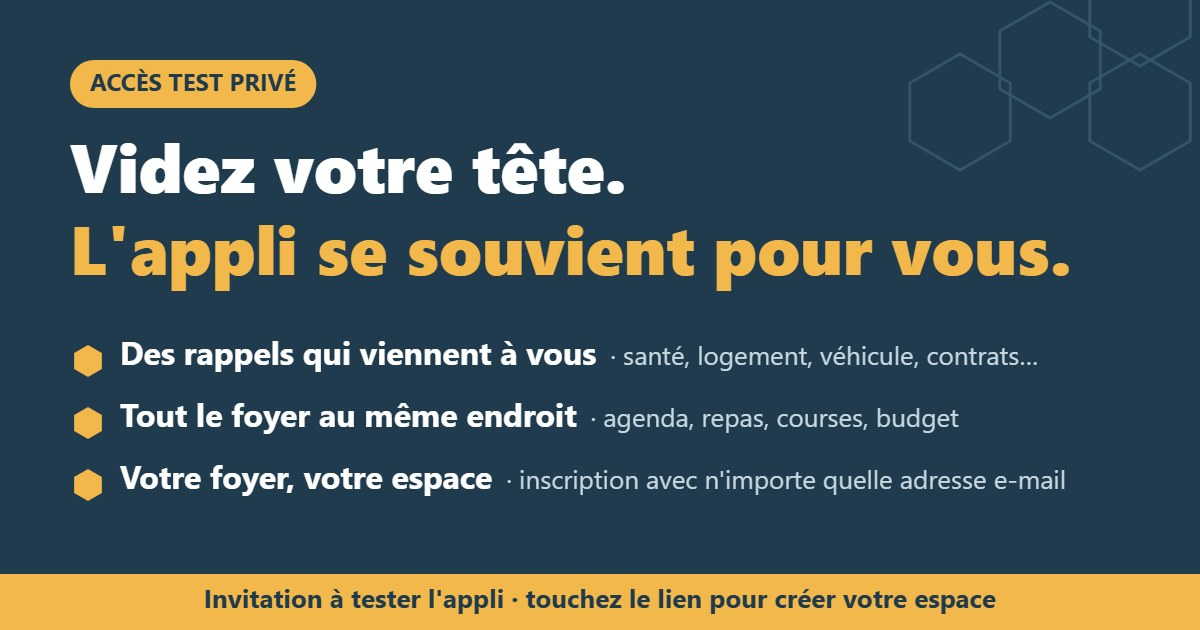
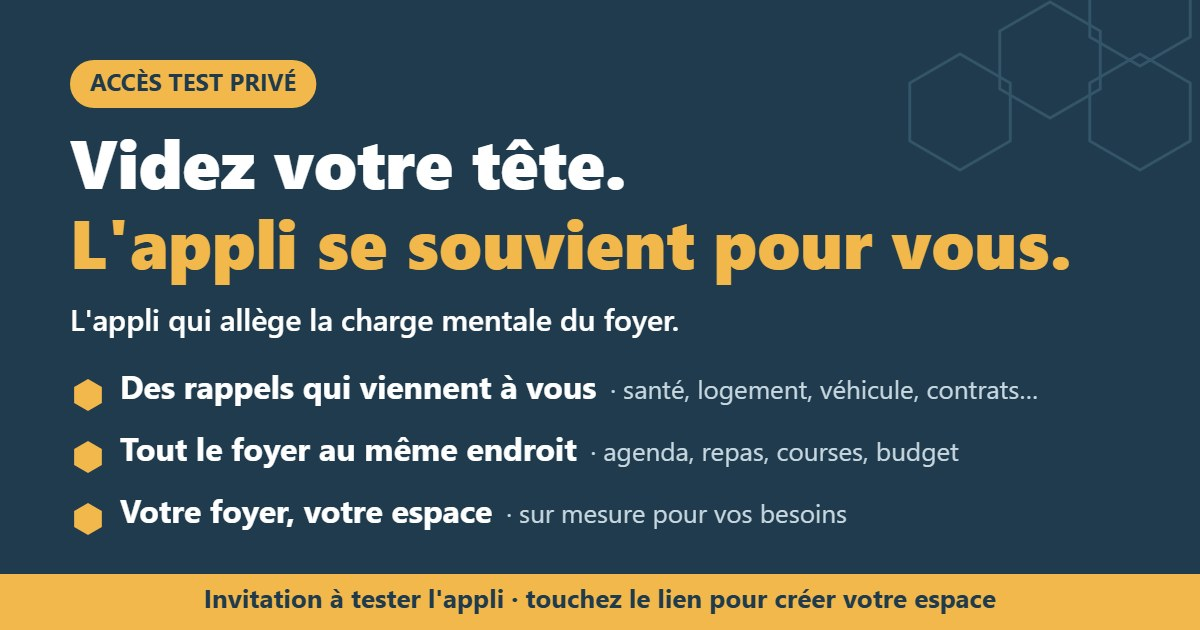
Add files via upload

Changed region(s): [[0.0617, 0.2111, 0.8942, 0.8444]]

diff --git a/index.html b/index.html
@@ -4,13 +4,13 @@
 <meta charset="utf-8">
 <meta name="viewport" content="width=device-width, initial-scale=1">
 <title>Invitation · accès test privé</title>
-<meta name="description" content="Accès test privé : une appli qui allège la charge mentale du foyer. Inscription avec n'importe quelle adresse e-mail.">
+<meta name="description" content="Accès test privé : l'appli qui allège la charge mentale du foyer, sur mesure pour vos besoins.">
 <meta name="robots" content="noindex, nofollow">
 <!-- Aperçu du lien (WhatsApp, SMS, e-mail, réseaux) -->
 <meta property="og:type" content="website">
 <meta property="og:locale" content="fr_FR">
 <meta property="og:title" content="Videz votre tête. L'appli se souvient pour vous.">
-<meta property="og:description" content="Accès test privé : rappels automatiques, agenda, repas, courses, budget du foyer. Inscription avec n'importe quelle adresse e-mail.">
+<meta property="og:description" content="L'appli qui allège la charge mentale du foyer : rappels automatiques, agenda, repas, courses, budget. Accès test privé, sur mesure pour vos besoins.">
 <meta property="og:url" content="https://pgrison75-debug.github.io/invitation/">
 <meta property="og:image" content="https://pgrison75-debug.github.io/invitation/apercu.jpg">
 <meta property="og:image:secure_url" content="https://pgrison75-debug.github.io/invitation/apercu.jpg">
@@ -31,7 +31,9 @@
   .hero::after { content: ""; position: absolute; right: -46px; top: -46px; width: 120px; height: 120px; opacity: .12;
     background: var(--soft); clip-path: polygon(25% 0, 75% 0, 100% 50%, 75% 100%, 25% 100%, 0 50%); }
   .bdg { display: inline-block; background: var(--amber); color: var(--navy); font-size: 12px; font-weight: 700; letter-spacing: 1.5px; padding: 5px 12px; border-radius: 99px; }
-  h1 { font-size: 30px; line-height: 1.15; margin: 14px 0 18px; }
+  h1 { font-size: 30px; line-height: 1.15; margin: 14px 0 10px; }
+  .accroche { color: #fff; font-size: 17px; line-height: 1.4; margin: 0 0 20px; }
+  .accroche b { color: var(--amber); }
   h1 span { color: var(--amber); }
   ul.pts { list-style: none; margin: 0 0 20px; padding: 0; }
   ul.pts li { position: relative; padding: 0 0 12px 26px; color: var(--soft); font-size: 15px; line-height: 1.4; }
@@ -56,11 +58,12 @@
   <section class="hero">
     <span class="bdg">ACCÈS TEST PRIVÉ</span>
     <h1>Videz votre tête.<br><span>L'appli se souvient pour vous.</span></h1>
+    <p class="accroche">L'appli qui allège <b>la charge mentale du foyer</b> : tout ce qu'il faut penser à faire, sans avoir à y penser.</p>
     <ul class="pts">
       <li><b>Des rappels qui viennent à vous</b>Vous décrivez votre foyer une fois : l'appli génère vos échéances (santé des enfants, logement, véhicule, contrats…).</li>
       <li><b>Tout le foyer au même endroit</b>Agenda, repas, courses, budget, travaux : un seul tableau de bord, partagé à deux.</li>
       <li><b>Un assistant qui comprend</b>« Ajoute du lait aux courses », « RDV dentiste jeudi 14h » : c'est noté.</li>
-      <li><b>Votre foyer, votre espace</b>Chaque foyer a son propre espace, invisible des autres.</li>
+      <li><b>Votre foyer, votre espace</b>Sur mesure pour vos besoins.</li>
     </ul>
     <a class="cta" href="https://script.google.com/macros/s/AKfycbzGzTMv72dZrfo075lSGY1y9J1XViRM5plcWYL3Z1GRgMwN6jTb_8s_0R00ov3W4YVz/exec" target="_top" rel="noopener">Créer l'espace de mon foyer</a>
     <p class="sous">Environ 10 minutes · n'importe quelle adresse e‑mail</p>
@@ -77,7 +80,6 @@
 
   <div class="avert"><b>Version de test.</b> L'appli peut encore changer ou buguer : vos retours (menu Plus › Support) aident à l'améliorer.</div>
 
-  <p class="muted">Invitation personnelle · merci de ne pas diffuser ce lien.</p>
 </main>
 </body>
 </html>
